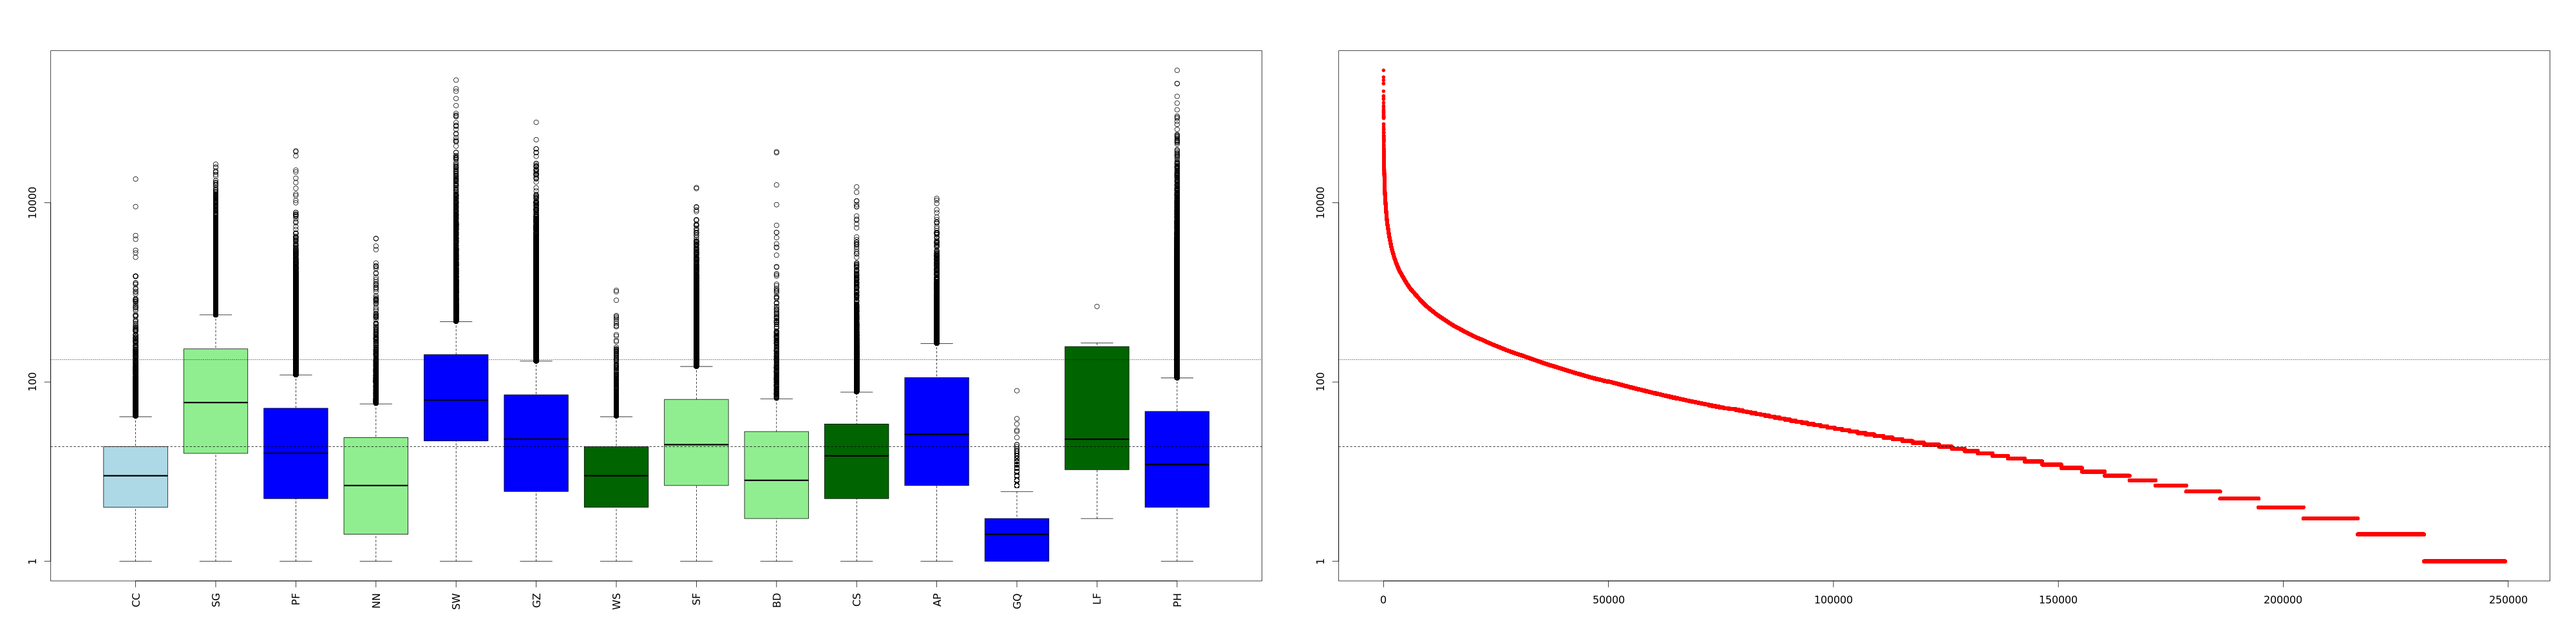
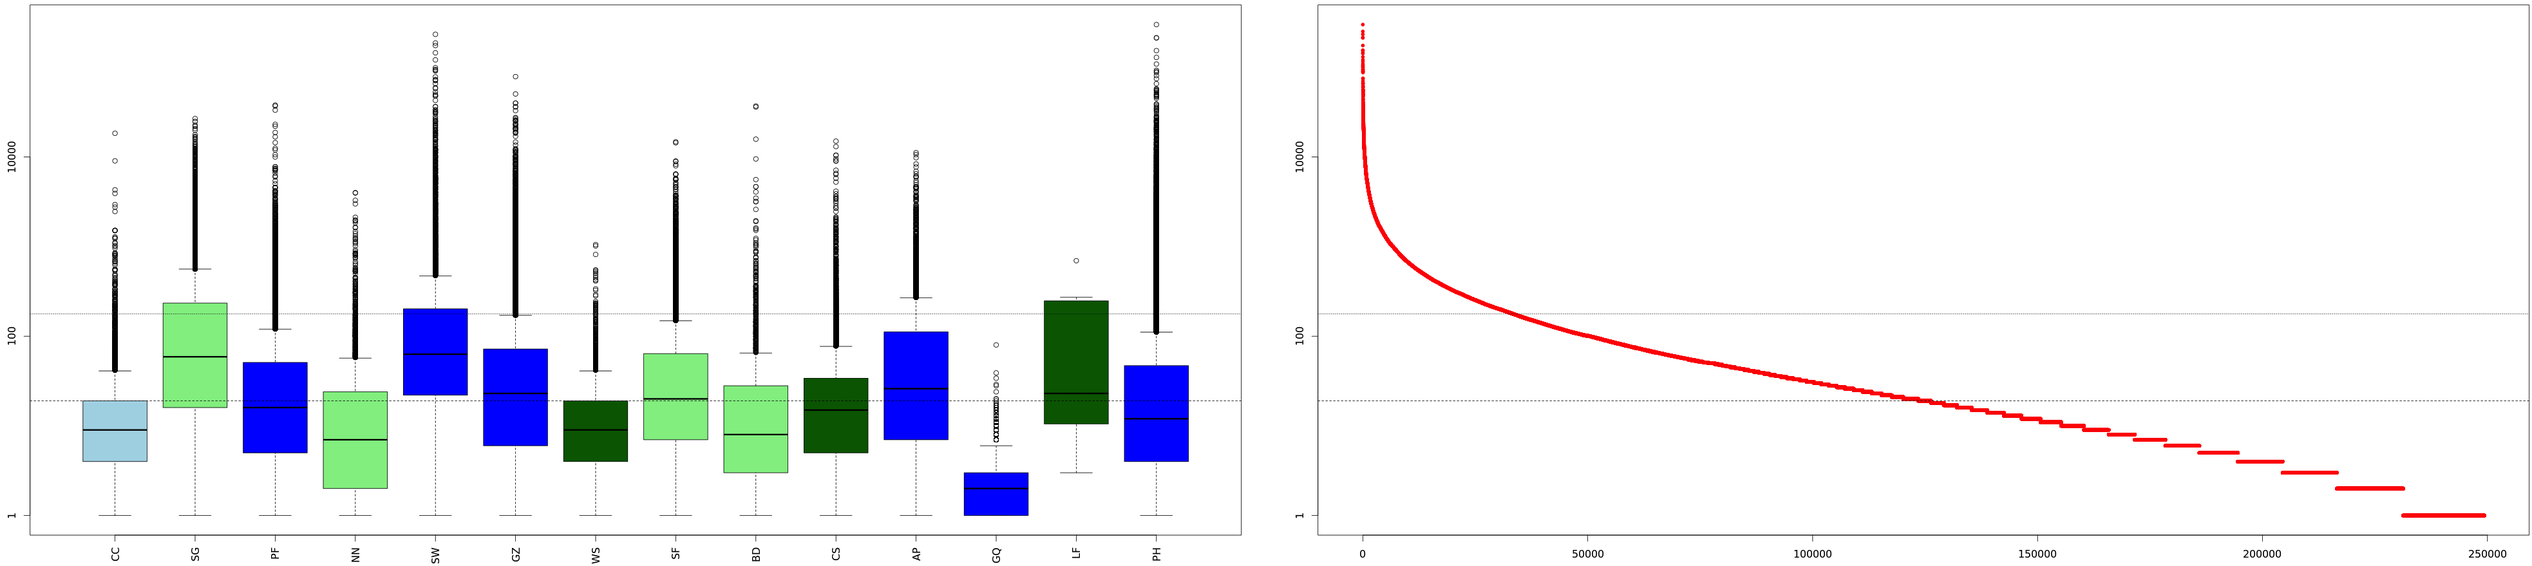
added caption

diff --git a/zooniverse-history.tex b/zooniverse-history.tex
@@ -87,7 +87,7 @@ breaklinks=true,
 \maketitle
 
 \begin{abstract}
-Crowdsourced approaches to citizen science can be an effective means of analysing and collecting large data sets and solving challenging problems through the collective contributions of multitudes of non-expert volunteers. Yet, designing such projects can be difficult due to the many and varied reasons that citizens participate. This paper contributes an case study of a single family of citizen science data analysis projects, called the \emph{Zooniverse}, which has yielded a significant number of new research findings across the natural sciences and humanities.  We focus on two themes which emerged from the team's experience of launching 27 projects as of September 2013; the first, on \emph{citizen-led discoveries}, compares four discoveries that departed from the traditional workflow of human computation by being citizen-initiated and, in some cases, led, contributing an analysis to the constraints and affordances that affected each. The second focuses on factors that were seen to most influence engagement, including properties of the tasks and datasets themselves, as well as the design of tutorial facilities.  We conclude with a 
+Crowdsourced approaches to citizen science can be an effective means of analysing and collecting large data sets and solving challenging problems through the collective contributions of multitudes of non-expert volunteers. Yet, designing such projects can be difficult due to the many and varied reasons that citizens participate. This paper contributes an case study of a single family of citizen science data analysis projects, called the \emph{Zooniverse}, which has yielded a significant number of new research findings across the natural sciences and humanities.  We focus on two themes which emerged from the team's experience of launching 27 projects as of September 2013; the first, on \emph{citizen-led discoveries}, compares four discoveries that departed from the traditional workflow of human computation by being citizen-initiated and, in some cases, led, contributing an analysis to the constraints and affordances that affected each. The second focuses on factors that were seen to most influence engagement, including properties of the tasks and datasets themselves, as well as the design of tutorial facilities.  We conclude with a summative analysis of the factors that most influenced project outcome, and 
 \end{abstract}
 
 \keywords{Citizen science, crowdsourcing, interface design}
@@ -466,8 +466,8 @@ However, even monotonous sequences of subjects sustained participation if they w
 
 \begin{figure*}[htbp]
 \centering
-\includegraphics[width=0.9\textwidth]{imgs/engagement_sum_median_mean_width.png}
-\caption{\emph{Average number of classifications per logged-in user} for recent Zooniverse projects Cyclone Center, Snapshot Serengeti, Planet Four, Notes from Nature, Space Warps, Galaxy Zoo 4, Worm Watch Lab, Seafloor Explorer, Bat Detective, Cell Slider, Andromeda Project, GalaxyZoo Quench, Ancient Lives, and Planet Hunters.}
+\includegraphics[width=1.0\textwidth]{imgs/engagement_sum_median_mean_width.png}
+\caption{\emph{Average number of classifications per logged-in user} - Left: By Zooniverse projects involving \emph{marking tasks}: Cyclone Center, Snapshot Serengeti, Planet Four, Notes from Nature, Space Warps, Galaxy Zoo 4, Worm Watch Lab, Seafloor Explorer, Bat Detective, Cell Slider, Andromeda Project, GalaxyZoo Quench, Ancient Lives, and Planet Hunters. Right: by most to least participation. Top solid grey line: \emph{mean} contributions per user; bottom broken line: \emph{median} per user. Only registered/logged-in users classifications are shown.}
 \label{fig:twopaths}
 \end{figure*}
 
